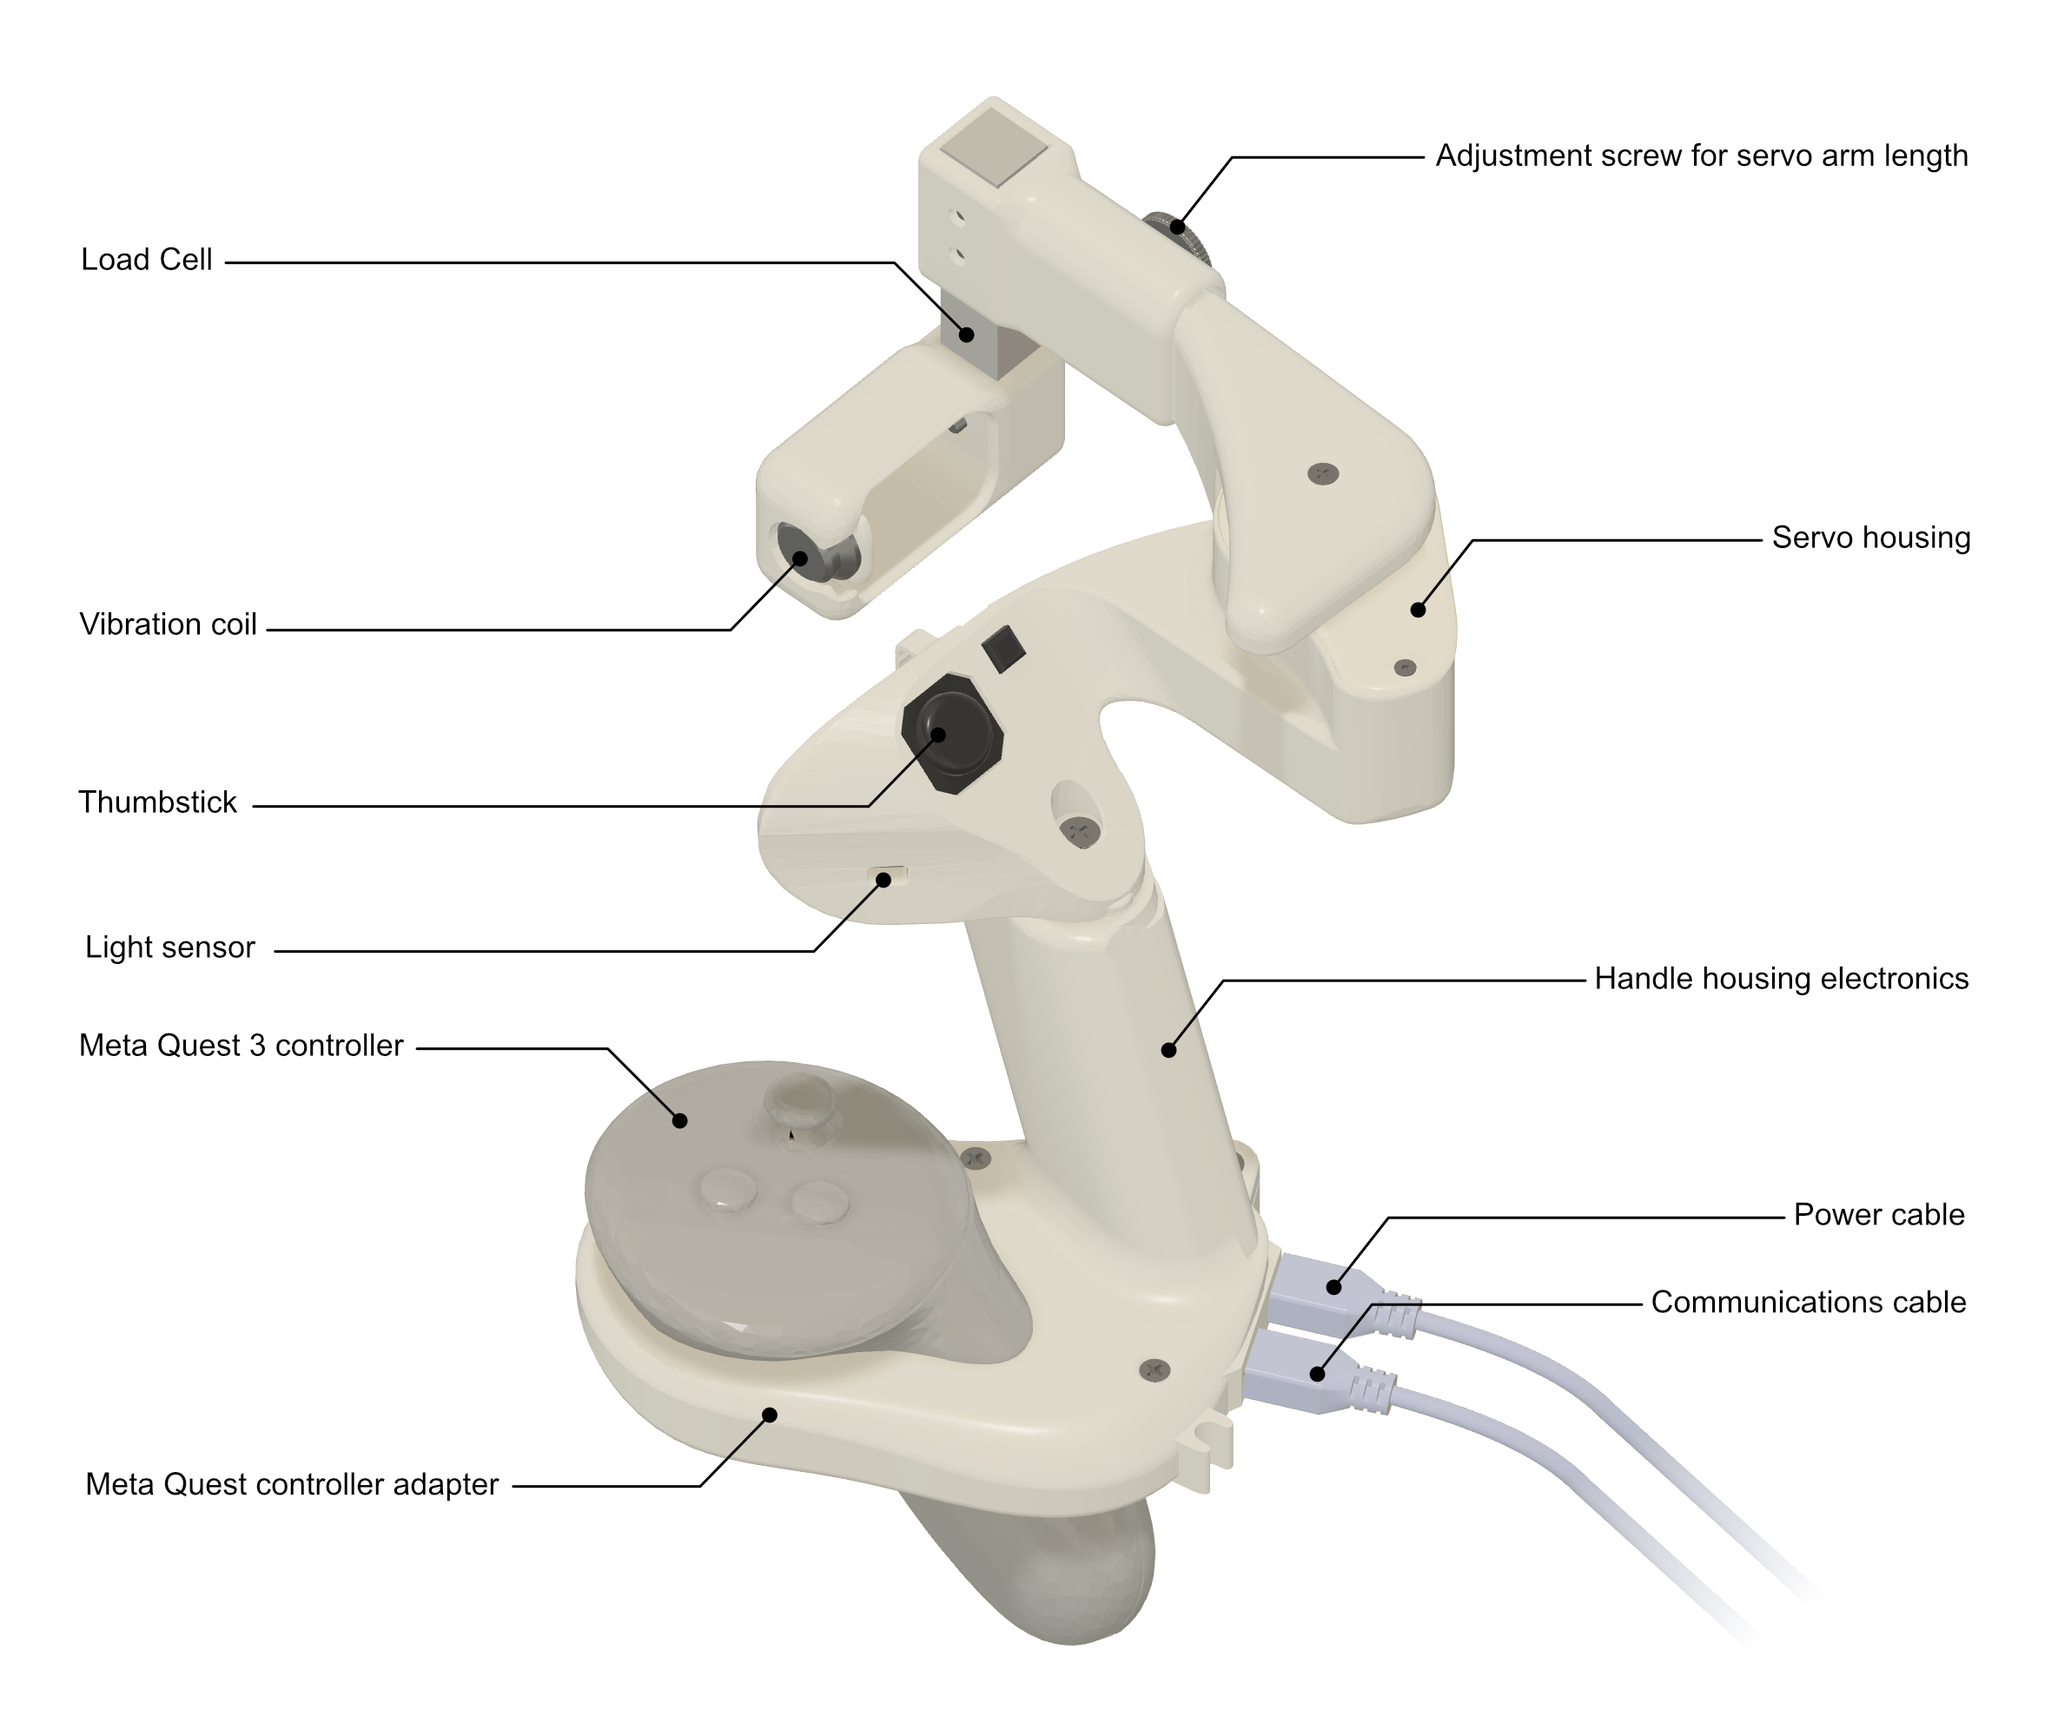
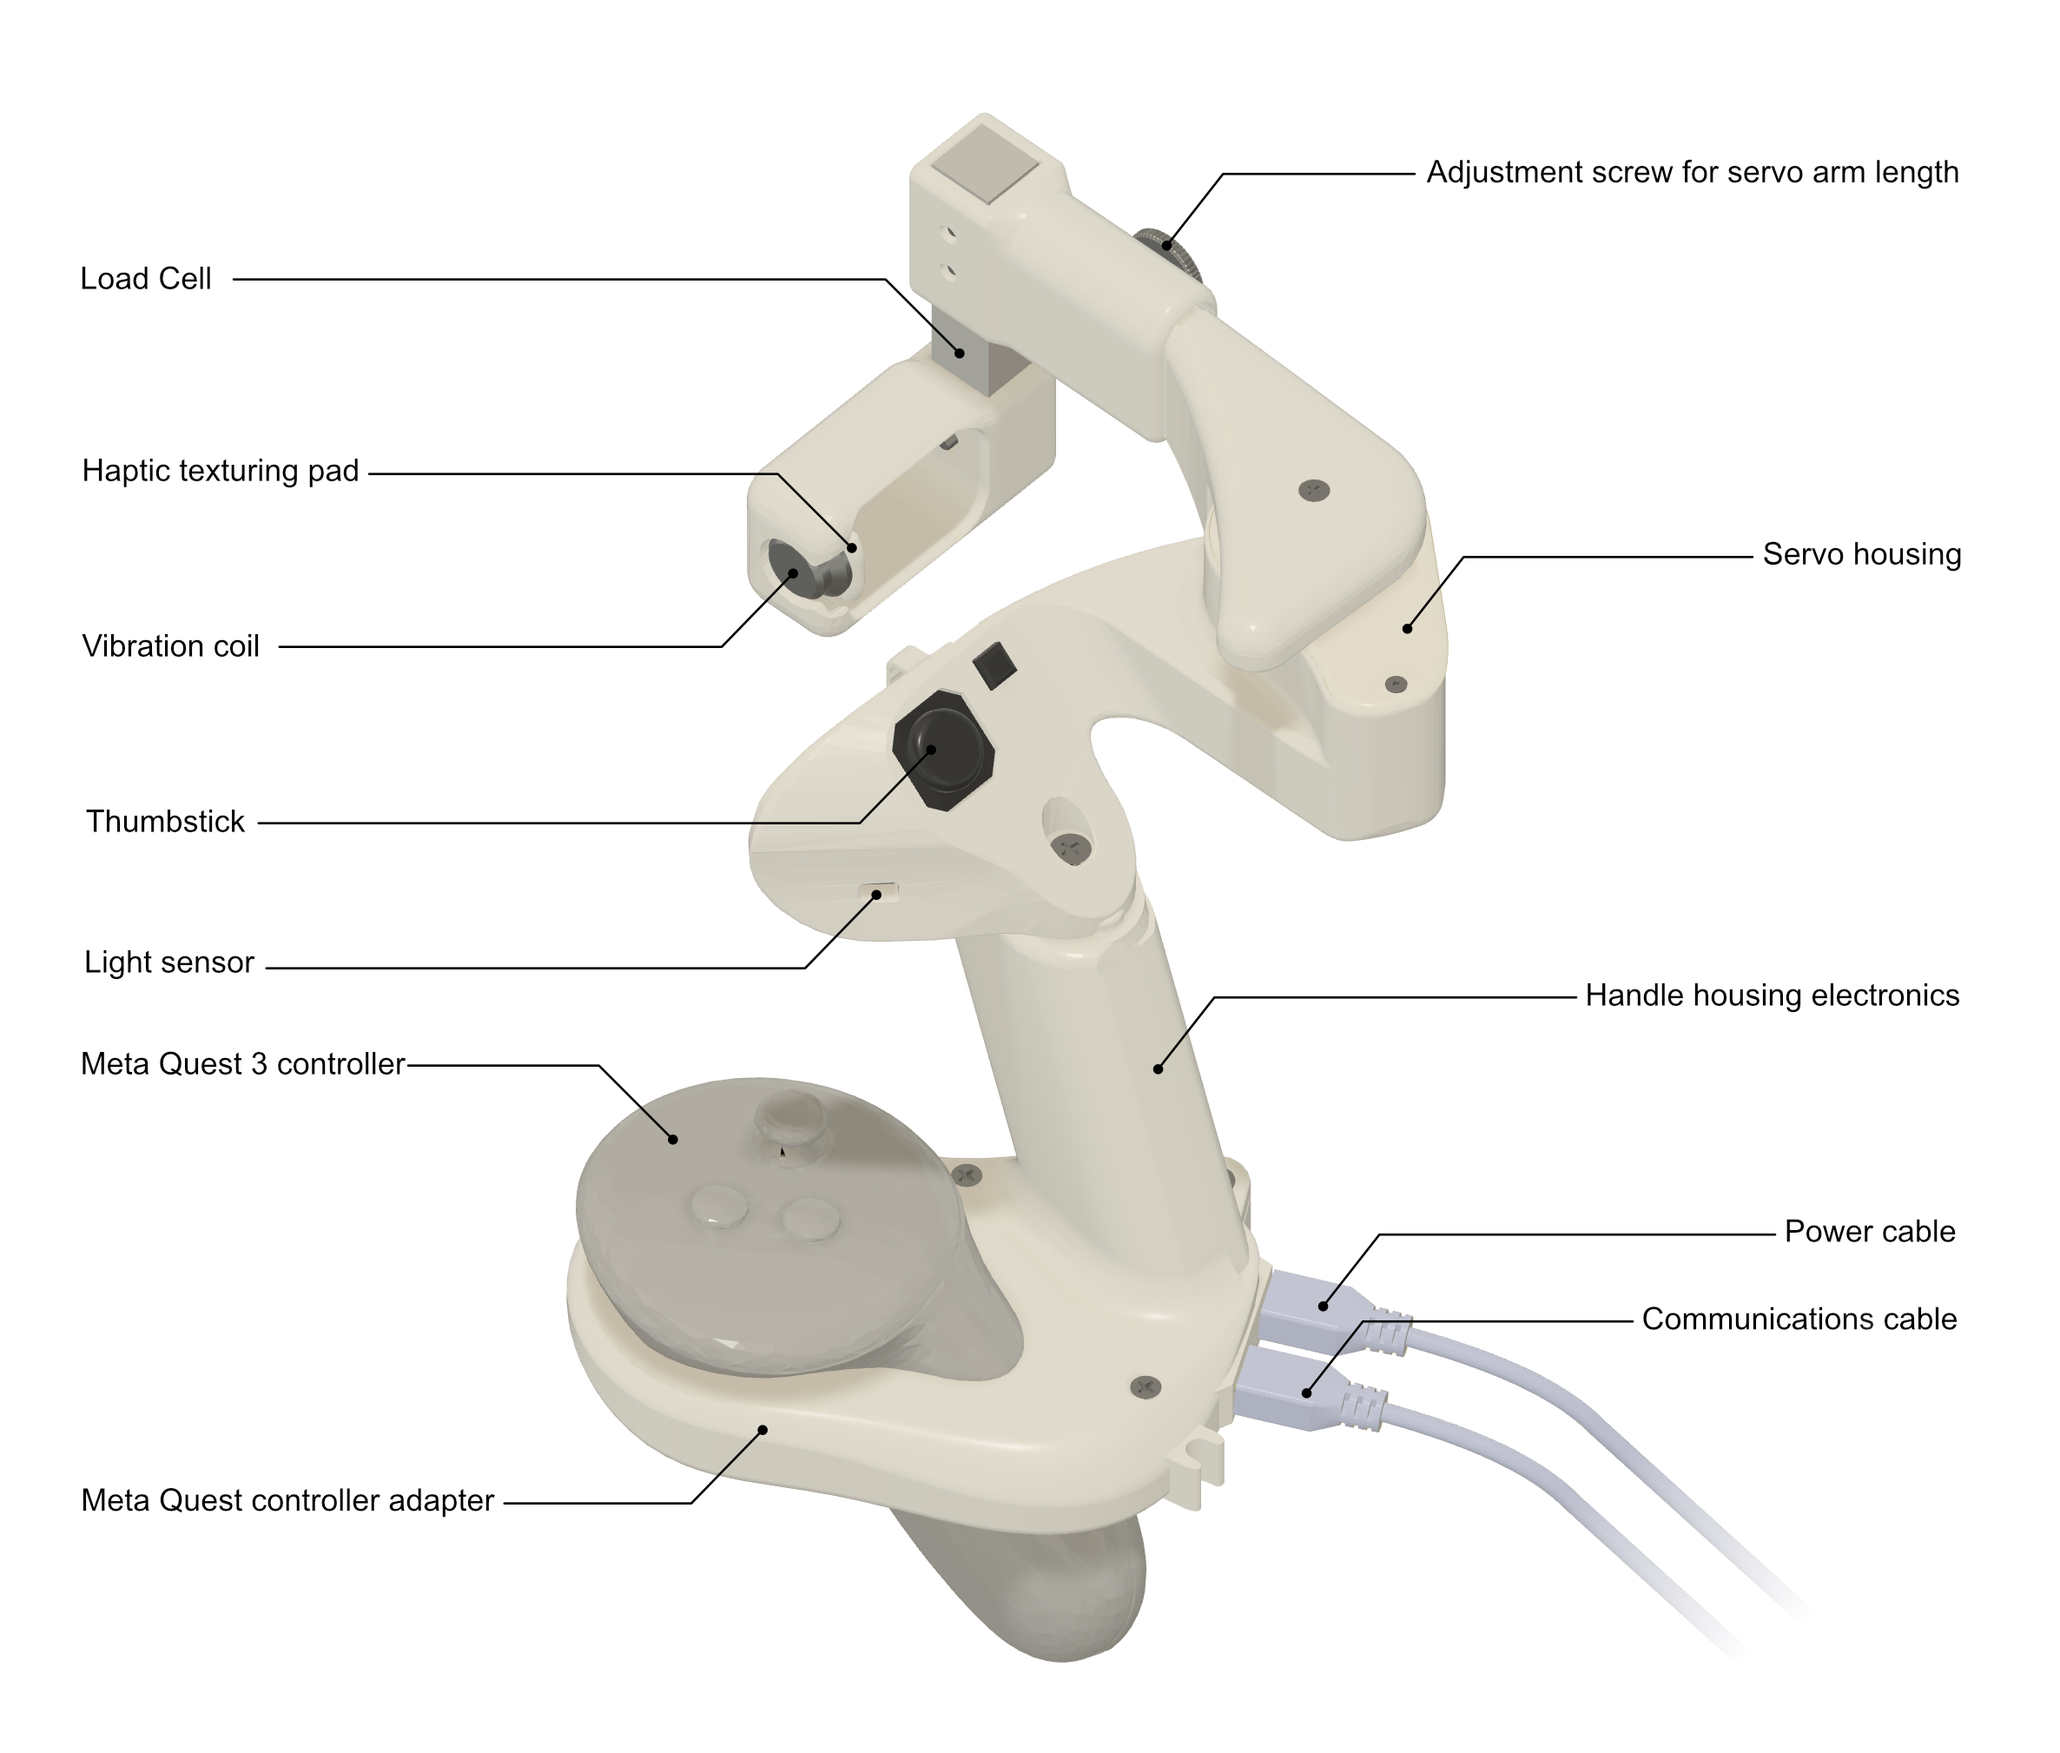
readme and images

diff --git a/README.md b/README.md
@@ -9,7 +9,9 @@ Haptic controller project page
 
 ## Description
 
-<img src="./Images/craeft_controller_diagram.png" alt="diagram of the craeft controller" width="90%"/>
+<img src="./Images/Instructional/craeft_controller_diagram.png" alt="diagram of the craeft controller" width="90%"/>
+
+
 
 
 ## How to use 
@@ -19,18 +21,18 @@ Haptic controller project page
 
 
 
-<img src="./Images/Instructional/step1.png" alt= "Inserting the quest controller" width="35%"/> 
-<img src="./Images/Instructional/step2.png" alt= "plugging in the USB cables" width="47%"/>
+<img src="./Images/Instructional/step1.png" alt= "Inserting the quest controller" width="40%"/> 
+<img src="./Images/Instructional/step2.png" alt= "plugging in the USB cables" width="53%"/>
 
 * Open Arduino IDE, Serial port at any baudrate, line termination etc.
 
 
-* Use the serial port to: 
+* Use the serial monitor to: 
     * Send commands to the controller 
     * Receive information from the controller at 100Hz: the format is
 
 ```
-    <mode><target object angle><PID set Angle> <light_sensor_value> <current force> <stiffness> <thumbstick Y> <thumbstick X>
+    <mode> <target object angle> <PID set Angle> <light_sensor_value> <current force> <stiffness> <thumbstick Y> <thumbstick X>
 ```
 * Mode:
     * Mode 0 : DISABLED MODE
@@ -43,19 +45,20 @@ The following commands can be sent to the controller to change its opearting mod
 
 |Command| Acceptable values|Definition|Example|
 |:---:|:---:|:---:|:---:|
-| M | T, P, D | change `op_mode` | MT : puts the controller in TOUCHING MODE |
-| A |0 to 50 |update  `setAngle` |A20 : puts set angle at 20 degrees|
-| O |0 to 50 |update  `objectAngle` |O25 : puts object angle at 30 degrees|
-|F |0 to 15000|haptic vibration frequency | F800 : sets the haptic vibration to 800Hz|
-|P|0 to 150|haptic vibration amplitude | sets the strength of the haptic vibration| P200 : sets the haptic vibration amplitude to 200|
+| M | T, P, D | change the operating mode `op_mode` | MT : puts the controller in TOUCHING MODE |
+| A |0 to 50 |update the desired angle of the servo arm `setAngle` |A20 : puts set angle at 20 degrees|
+| O |0 to 50 |update the angle at which finger collides with object `objectAngle` |O25 : puts object angle at 30 degrees|
+|F |0 to 15000|update haptic vibration frequency `haptic_updateFrequency`| F800 : sets the haptic vibration to 800Hz|
+|P|0 to 150|update the haptic vibration amplitude (strength) `haptic_amp`  | P100 : sets the haptic vibration amplitude to 100|
 | L | 0 or 1 | allows controller to switch to pinching mode if the light sensor is covered | L1 : activates this function |
+
 
 **Servo arm range** 
 
 Illustration of what is meant by the previously mentioned angles. The maximum angle, 50 by default, can be configured if needed by changing the global variable `SERVO_ANGLE_MAX`
 (such as for users with smaller hands).
 
-<img src="./Images/Instructional/AngleDefinition.png" width="40%" />
+<img src="./Images/Instructional/AngleDefinition.png" width="60%" />
 
 ## System block diagram
 <img src="./Images/Instructional/blockdiagrampng.png" width="80%" />
@@ -71,7 +74,7 @@ Illustration of what is meant by the previously mentioned angles. The maximum an
 - [x] Complete the list of commands in the table
 - [x] Complete format of the information the controller sends back 
 - [x] Add angle definition image 
-- [ ] Add block diagram to explain the controller components
+- [x] Add block diagram to explain the controller components
 - [x] Finish assembling and labelling both controllers
 - [x] Test code on both controllers
 - [x] Test added feature: enable/disable mode switching based on thumb placement. Default is off. Make sure to set a threshold that works with both controllers. 
